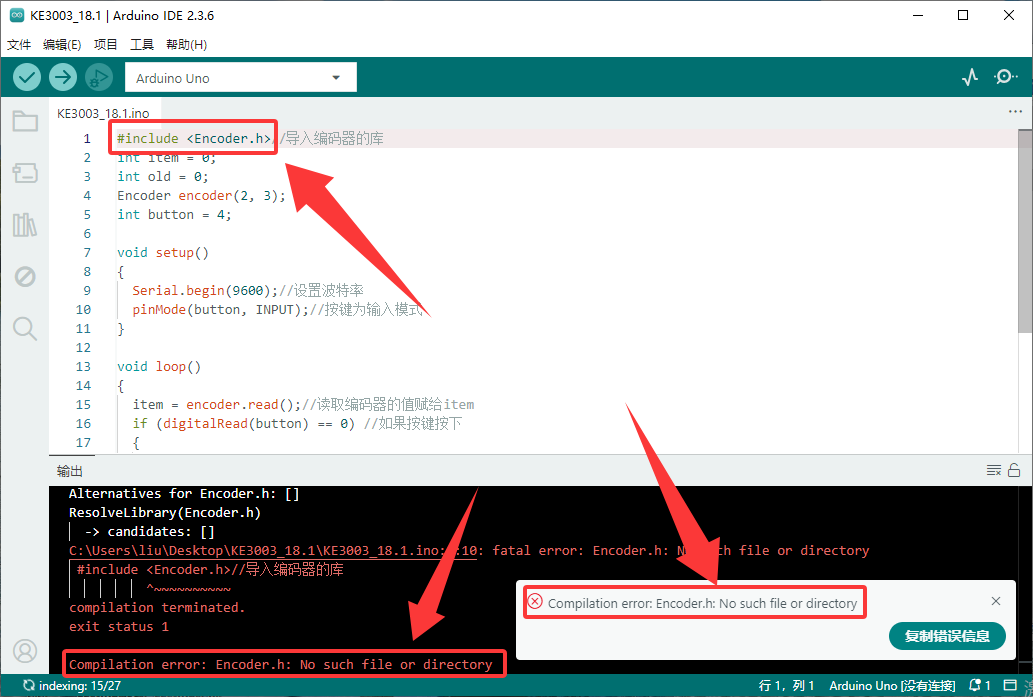
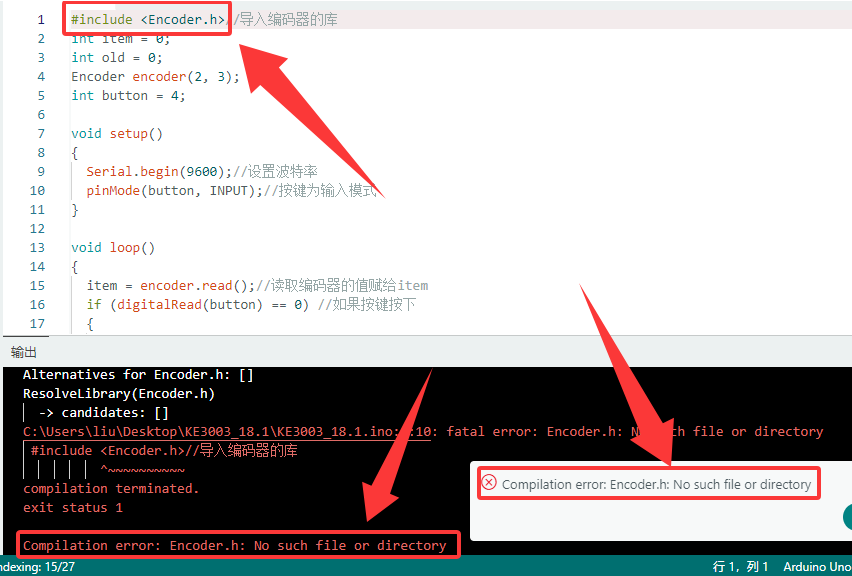
V1.0

diff --git a/docs/ArduinoTutorial/Project/Project1.md b/docs/ArduinoTutorial/Project/Project1.md
@@ -69,14 +69,14 @@ void loop()
 
 ## 5.代码1说明
 
-1.  pinMode(pin,mode)；pin是用于设置模式的Arduino引脚号；mode为模式，可选：输入模式INPUT，输出模式OUTPUT或输入上拉INPUT_PULLUP，在这里我们设置了管脚3位输出模式。
+1.  pinMode(pin,mode)；pin是用于设置模式的Arduino引脚号；mode为模式，可选：输入模式INPUT，输出模式OUTPUT或输入上拉INPUT_PULLUP，在这里我们设置了管脚3为输出模式。
 2.  digitalWrite(pin,     value)；pin是单片机数字管脚，在这里我们定义了管脚3；value是你将要输出的数字电平（HIGH/LOW）；如果使用pinMode（）将引脚配置为OUTPUT，则其电压将设置为相应的值：5V（在3.3V板上为3.3V）为HIGH，低电平为0V（接地）。如果没有把pinMode（）设置为OUTPUT，而是将LED连接到引脚，则在调用digitalWrite（HIGH）时，LED可能会变暗。因为此时digitalWrite（）将启用内部上拉电阻，其作用类似于一个大限流电阻。
 3.  delay(ms)；延时函数，ms为暂停的毫秒数，数据类型：unsigned     long（范围 0~ 4,294,967,295 (2^32 - 1)）。
 4.  通过整合前面知识。我们再来看代码就清楚明了了，代码中第一条我们把模块信号端接到D3，设置为高电平，就是点亮模块上LED；第二条延迟1000毫秒，就是让模块上LED点亮1秒。同样第三条第四条代码表示让模块上LED熄灭1秒。代码默认循环，也就是控制模块上LED，循环亮1秒，灭1秒，实现闪烁效果。通过代码设置，我们可以更改模块上LED亮灭的延迟时间，从而使模块上LED实现不同的闪烁效果。
 
 ## 6.代码2说明
 
-1.  代码中setup（）是只执行一次，而loop（）函数是一直循环。这里我们还用到了for（）循环：最简单形式为for(     ; ; )，我们在此实验中用到for (int i = 0; i \<= 255; i = i +1)；表示变量i从0到255，每次自加1，知道不满足 i \<=255这个判断表达式，否则一直执行大括号里的代码，即一共执行256次大括号里的代码；同理for     (int i = 255; i \>= 0; i = i - 1)；i每次自减1，当不满足i\>=0时，跳出该for（）循环，一共执行256次。
+1.  代码中setup（）是只执行一次，而loop（）函数是一直循环。这里我们还用到了for（）循环：最简单形式为for(     ; ; )，我们在此实验中用到for (int i = 0; i \<= 255; i = i +1)；表示变量i从0到255，每次自加1，直到不满足 i \<=255这个判断表达式，否则一直执行大括号里的代码，即一共执行256次大括号里的代码；同理for     (int i = 255; i \>= 0; i = i - 1)；i每次自减1，当不满足i\>=0时，跳出该for（）循环，一共执行256次。
 2.  代码1中，我们控制模块上信号端控制LED亮灭。在代码2中，我们通过利用keyes     UNO R3开发板上PWM口，设置PWM值，控制模块上LED亮度。
 3.  keyes UNO R3开发板上只有D3 D5 D6 D9 D10 D11数字口是PWM口，也就是说如果要控制LED的亮度，信号端就只能接着几个接口。实验中，我们将模块信号端接在D3脚，属于PWM口。设置时我们设置PWM数值越小，模块上LED越暗，数值越大，模块上LED越亮，范围为0-255。analogWrite（pin，value），pin为PWM口，value是要输出的PWM值（0~255）。
 4.  通过整合前面知识，我们再来看代码，就清楚多了。将D3的PWM值设置为i，i刚开始由0增加到255，每次加1，每加一次延迟10毫秒，模块上LED逐渐变亮。PWM为255后，i开始由255减小到0，每次减1，每减一次延迟10毫秒，模块上LED逐渐变暗。然后又逐渐变亮，循环交替，如人体呼吸一样。

diff --git a/docs/ArduinoTutorial/Project/Project3.md b/docs/ArduinoTutorial/Project/Project3.md
@@ -2,7 +2,7 @@
 
 ## 1.实验说明
 
-在这个套件中，有一个插件RGB模块，它采用F5-全彩RGB雾状共阴LED元件。控制时，将模块R G B连接单片机PWM口，"-"接GND。通过调节3个PWM值，控制LED元件显示红光、绿光和蓝光的比例，从而控制RGB模块上LED显示不同颜色灯光。当设置的PWM值越大，对应显示的颜色比例越重。理论来说，通过调节这3中颜色光的混合比例，可以模拟出所有颜色的灯光。
+在这个套件中，有一个插件RGB模块，它采用F5-全彩RGB雾状共阴LED元件。控制时，将模块R G B连接单片机PWM口，"-"接GND。通过调节3个PWM值，控制LED元件显示红光、绿光和蓝光的比例，从而控制RGB模块上LED显示不同颜色灯光。当设置的PWM值越大，对应显示的颜色比例越重。理论来说，通过调节这3种颜色光的混合比例，可以模拟出所有颜色的灯光。
 
 实验中，通过测试代码，控制模块上RGB LED显示几个常用颜色。
 
@@ -27,7 +27,7 @@
 **代码1：**
 
 ```c
-int redPin = 9; //定义红色接D
+int redPin = 9; //定义红色接D9
 int greenPin = 10; //定义绿色接D10
 int bluePin = 11; //定义蓝色接D11
 
@@ -107,14 +107,14 @@ void loop()
 
 ## 5.代码1说明
 
-1.  代码1中，R G B代表控制模块上LED对应的红绿蓝3种颜色对应的端口，根据接线图我们接到了D9 D10     D11，设置为9 10 11，后面设置对应高低，设置GRB     LED中红绿蓝3个灯是否会亮，设置为高（对应数字口为高电平），对应的颜色就亮。
+1.  代码1中，R G B代表控制模块上LED对应的红绿蓝3种颜色对应的端口，根据接线图我们接到了D9 D10     D11，设置为9 10 11，后面设置对应高低，设置RGB LED中红绿蓝3个灯是否会亮，设置为高（对应数字口为高电平），对应的颜色就亮。
 
 2.  现在观察代码，这个代码非常简单，只是简单的控制模块上RGB     LED显示红色1秒、绿色1秒、蓝色1秒，循环交替。
 
 ## 6.代码2说明
 
 1. 代码2中，使用到了PWM输出，根据接线图我们接到了D9 D10D11，设置为9 10 11。后面设置数据代表设置模块上LED     红绿蓝颜色的比例，设置的数据越大（对应的PWM值越大），设置该颜色的比例越大。
-2. 实验中通过设置对应数值，调节RGB     LED上红绿蓝颜色比例，从而控制RGB LED显示对应颜色。所以理论上来说可以设置的颜色有256\*256\*256种。
+2. 实验中通过设置对应数值，调节RGB LED上红绿蓝颜色比例，从而控制RGB LED显示对应颜色。所以理论上来说可以设置的颜色有256\*256\*256种。
 
 ## 7.测试结果
 

diff --git a/docs/ArduinoTutorial/Project/Project41.md b/docs/ArduinoTutorial/Project/Project41.md
@@ -1,8 +1,8 @@
-# 项目四十六 按键控制RGB灯
+# 项目四十一 按键控制RGB灯
 
 ## 1.实验说明
 
-在前面课程中，利用旋转编码器计数然后控制RGB模块。在这一课程中，利用代码，计算出按下模块上按键的次数。设置计数代码时，可以参考第四章实验十七的计数代码。然后将所得数据除以三，所得余数为0 1 2三种。然后通过不同的余数，控制RGB模块上LED显示不同的颜色。
+在前面课程中，利用旋转编码器计数然后控制RGB模块。在这一课程中，利用代码，计算出按下模块上按键的次数。设置计数代码时，可以参考前面的“光折断计数”课程。然后将所得数据除以三，所得余数为0 1 2三种。然后通过不同的余数，控制RGB模块上LED显示不同的颜色。
 
 这样，就可以通过不断的按下按键，任意调节RGB模块上LED显示不同颜色了（三种颜色）。
 
@@ -85,7 +85,7 @@ void loop()
 
 通过以下表格，了解这个代码的逻辑设置。
 
-| 初始设置           | PushCounter设置为0（累计通过物体数目）<br>PushCounter1设置为0（累计通过物体数目除以3的余数）<br>State设置为1（传感信号端数值）<br>lastState设置为1（传感器信号端上一循环数值） |                                 |                        |
+| 初始设置           | PushCounter设置为0（累计按键按下次数）<br/>PushCounter1设置为0（累计按键按下的次数除以3的余数）<br/>State设置为1（传感信号端数值）<br/>lastState设置为1（传感器信号端上一循环数值） |                                 |                        |
 | ------------------ | ------------------------------------------------------------ | ------------------------------- | ---------------------- |
 | 按键按下（一瞬间） | State检测到变为0，lastState为1，两个数据不相等。             | PushCounter设置为PushCounter加1 | PushCounter1加1或变为0 |
 | 长按按键（循环）   | State检测到变为0，lastState设置为0，两个数据相等。           | PushCounter不变                 | PushCounte1不变        |

diff --git a/docs/ArduinoTutorial/Project/Project30.md b/docs/ArduinoTutorial/Project/Project30.md
@@ -2,7 +2,7 @@
 
 ## 1.实验说明
 
-在这个套件中，有一个热敏电阻传感器，它主要采用NTC-MF52AT热敏电阻元件。NTC-MF52AT热敏电阻元件能够时感知周边环境温度的变化，电阻大小随着温度的变化而变化。该传感器就是利用NTC-MF52AT热敏电阻元件这一特性，搭建电路将电阻变化转换为电压变化。
+在这个套件中，有一个热敏电阻传感器，它主要采用NTC-MF52AT热敏电阻元件。NTC-MF52AT热敏电阻元件能够实时感知周边环境温度的变化，电阻大小随着温度的变化而变化。该传感器就是利用NTC-MF52AT热敏电阻元件这一特性，搭建电路将电阻变化转换为电压变化。
 
 实验中，将传感器信号端接到keyes UNO R3开发板模拟口，读出对应的模拟值。可以利用模拟值，通过特定公式，计算出当前环境的温度。实验中，读取对应的模拟值。
 

diff --git a/docs/ArduinoTutorial/Project/Project17.md b/docs/ArduinoTutorial/Project/Project17.md
@@ -60,7 +60,7 @@ void loop()
 
 1.调节发射功率调节电位器，先将电位器顺时针到尽头，然后回调一些，使传感器上D1 LED介于不亮与亮之间的零界点。
 
-2.调节接收频率调节电位器，顺时针调节时，频率增大。调节使它产生38KHz频率的方波，调节时，也观察传感器上D1 LED，使它介于不亮与亮之间的零界点。
+2.调节接收频率调节电位器，顺时针调节时，频率增大。调节使它产生38KHz频率的方波，调节时，也观察传感器上D1 LED，使它介于不亮与亮之间的临界点。
 
 ![](media/image-20251022141702031.png)
 

diff --git a/docs/产品介绍.md b/docs/产品介绍.md
@@ -90,7 +90,7 @@ Keyes brick 37合一传感器套装主要包含了我们常用的37款传感器/
 
 - 11 电源输出接口: 输出3.3V或5V，常用于对外供电或进行共地处理
 
-- 12 DC电源接口: 可接入7V-12V范围内电压
+- 12 Vin 电源接口: 可接入7V-12V范围内电压
 
 - 13 模拟口A0-A5（ IIC通信：A4(SDA)和A5（SCL），也可当做数字口使用：A0(D14)、A1(D15)、A2(D16)、A3(D17)、A4(D18)和A5(D19) ）
 
@@ -98,4 +98,4 @@ Keyes brick 37合一传感器套装主要包含了我们常用的37款传感器/
 
 - 5 复位按键
 
-- 8 16 MHz晶
+- 8 16 MHz晶振

diff --git a/docs/ArduinoTutorial/Project/Project31.md b/docs/ArduinoTutorial/Project/Project31.md
@@ -26,7 +26,7 @@
 
 ```c
 int lm35Pin = A3;
-float temperture = 0;
+float temperature = 0;
 
 void setup() {
   Serial.begin(9600);  //设置波特率9600
@@ -38,9 +38,9 @@ void setup() {
 void loop() {
   int value = analogRead(A3);  //传感器接A3
   //计算温度值
-  temperture = ((value * 5.0) * 100) / 1024;
-  Serial.print("Temperture:");
-  Serial.print(temperture);
+  temperature = ((value * 5.0) * 100) / 1024;
+  Serial.print("Temperature:");
+  Serial.print(temperature);
   Serial.println(" C");  //换行打印
   delay(100);            //加延时100MS
 }

diff --git a/docs/ArduinoTutorial/Project/Project7.md b/docs/ArduinoTutorial/Project/Project7.md
@@ -29,16 +29,17 @@ int buzzer = 3; //定义蜂鸣器接管脚D3
 
 void setup() 
 {
-  pinMode(3, OUTPUT);//设置输出模式
+  pinMode(buzzer, OUTPUT);//设置输出模式
 }
 
 void loop() 
 {
-  digitalWrite(3, HIGH); //发声
+  digitalWrite(buzzer, HIGH); //发声
   delay(1000);
-  digitalWrite(3, LOW); //停止发声
+  digitalWrite(buzzer, LOW); //停止发声
   delay(1000);
 }
+
 ```
 
 ## 5.代码说明

diff --git a/docs/ArduinoTutorial/Project/Project26.md b/docs/ArduinoTutorial/Project/Project26.md
@@ -25,8 +25,9 @@
 ## 4.测试代码
 
 ```c
-#include <dht11.h>  //include the library code: dht11 DHT;
-#define DHT11_PIN 3 //定义DHT11为数子口3
+#include <dht11.h>  //include the library code: 
+dht11 DHT;
+#define DHT11_PIN 3 //定义DHT11为数字口3
 
 void setup() 
 {

diff --git a/docs/ArduinoTutorial/Project/Project40.md b/docs/ArduinoTutorial/Project/Project40.md
@@ -1,4 +1,4 @@
-# 项目四十五 旋转编码器模块控制RGB模块
+# 项目四十 旋转编码器模块控制RGB模块
 
 ## 1.实验说明
 

diff --git a/docs/ArduinoTutorial/Project/Project39.md b/docs/ArduinoTutorial/Project/Project39.md
@@ -8,7 +8,7 @@
 
 ## 2.实验器材
 
-- keyes brick TEMT6000光线传感器*1
+- keyes brick 光敏传感器*1
 
 - keyes brick LED模块*1
 
